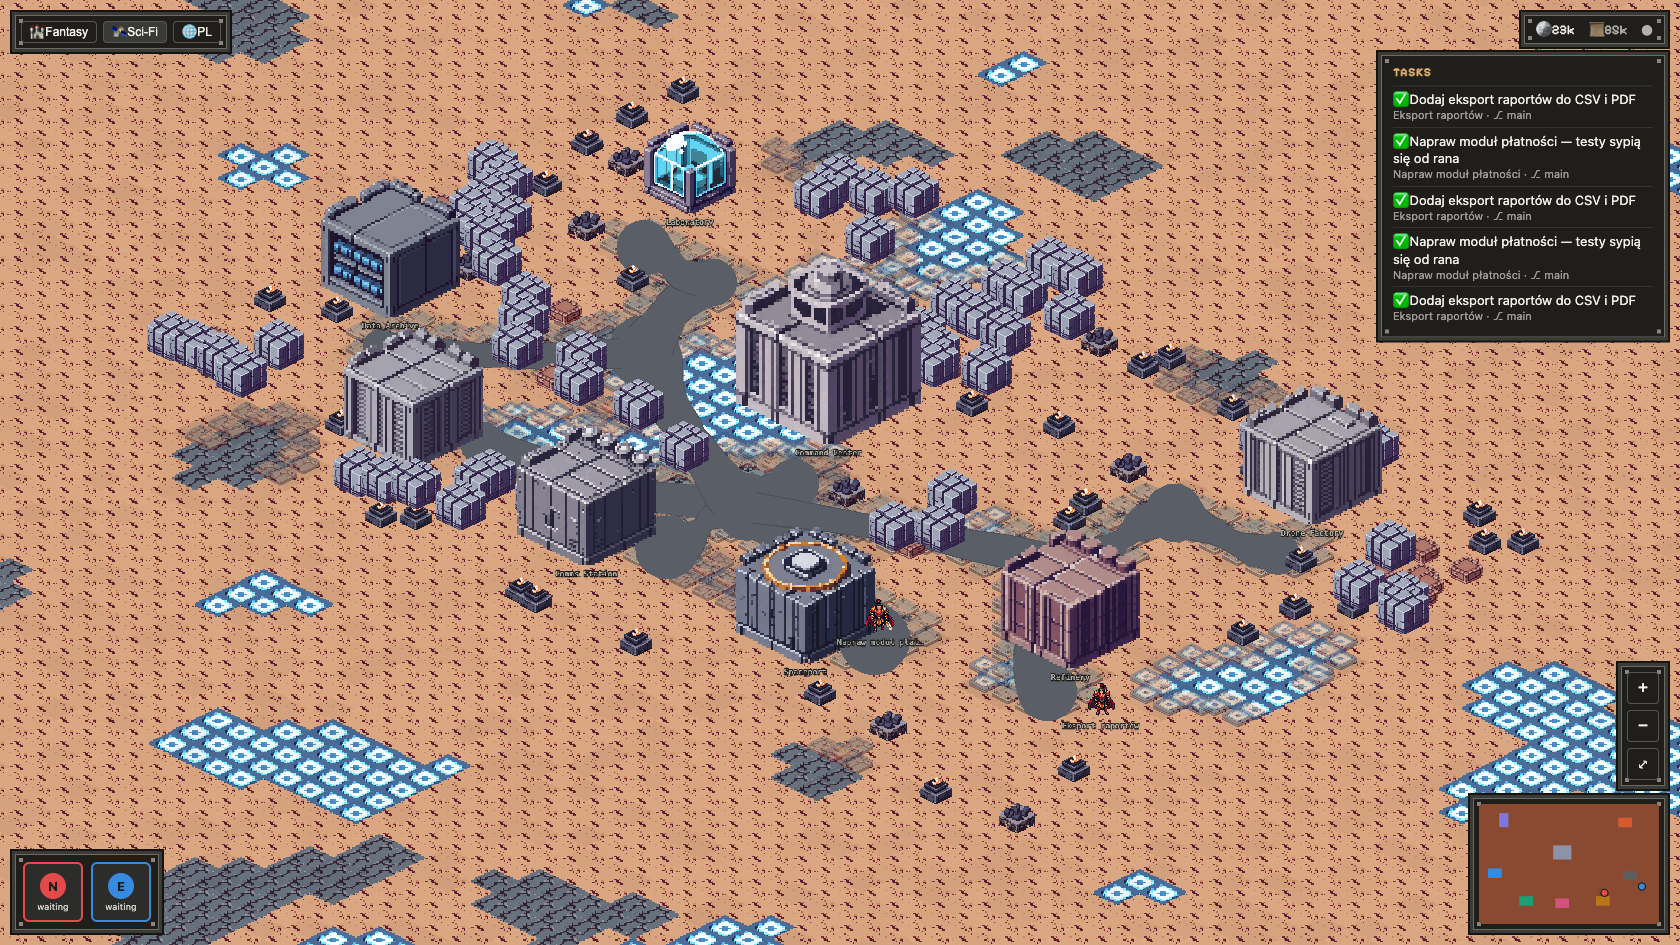
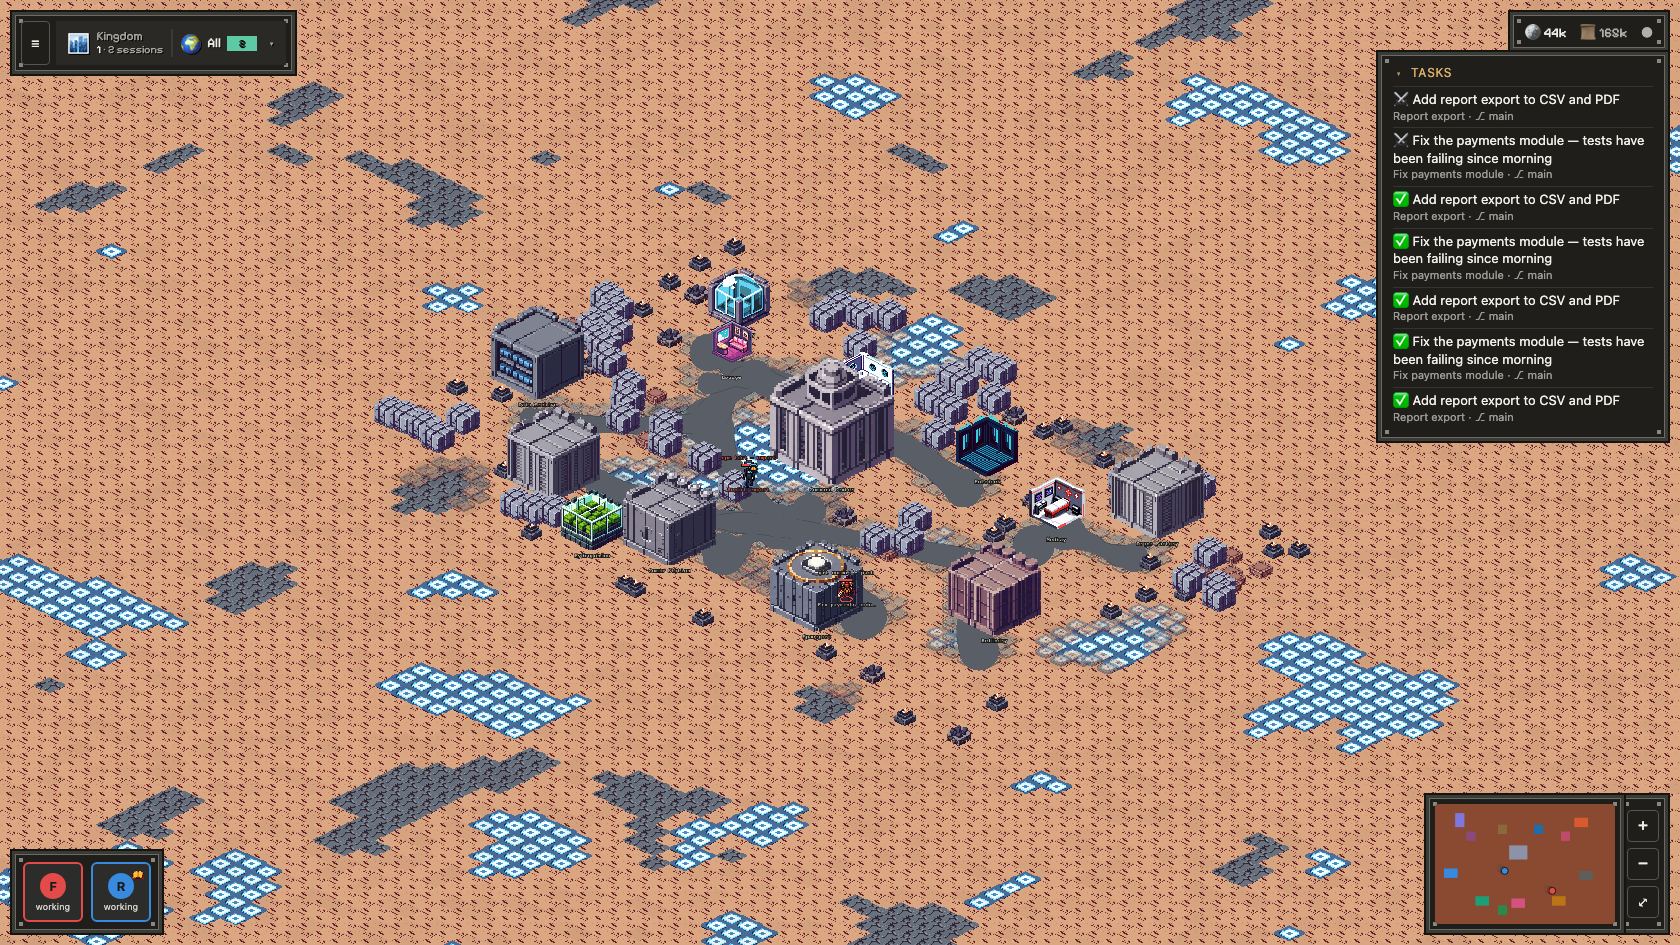
docs: retake screenshots on the fork — night realm, heraldry, dusk panel
- citadel-fantasy.png: fantasy realm at 22:00 — moonlit tint, lit windows
- citadel-scifi.png: Martian colony by day (contrast with the night hero shot)
- citadel-session-panel.png: OpenCode scout at dusk with provider pill and
  the new shield badge visible
- alt text updated to match

Claude-Session: https://claude.ai/code/session_018WfWNWMy62s84HmVN7jcMy

diff --git a/docs/index.html b/docs/index.html
@@ -190,7 +190,7 @@
       <div class="frame rv" data-d="4">
         <span class="corner tl"></span><span class="corner tr"></span><span class="corner bl"></span><span class="corner br"></span>
         <div class="bar"><i style="background:#8fc065"></i><i style="background:#e0b64a"></i><i style="background:#7fb6c4"></i><span class="t">agent-hollow · localhost:5173</span></div>
-        <img src="screenshots/citadel-fantasy.png" alt="Agent Hollow — a peaceful fantasy realm with a keep, mage tower, market and library">
+        <img src="screenshots/citadel-fantasy.png" alt="Agent Hollow — the fantasy realm at night: keep, mage tower, market and library with windows aglow">
       </div>
     </div>
   </section>

diff --git a/README.md b/README.md
@@ -18,7 +18,7 @@ No combat, just a quiet realm you can watch at a glance.
 
 [**▶ Live site**](https://acaylor.github.io/agent-hollow/) · [Quick start](#-quick-start) · [How it works](#-how-it-works) · [Architecture](#-architecture)
 
-<img src="docs/screenshots/citadel-fantasy.png" alt="Agent Hollow — peaceful fantasy realm" width="820">
+<img src="docs/screenshots/citadel-fantasy.png" alt="Agent Hollow — the fantasy realm at night, windows aglow" width="820">
 
 </div>
 
@@ -44,7 +44,7 @@ A glanceable, second-monitor view of what your agents are quietly up to.
 
 | Fantasy | Sci-Fi |
 | --- | --- |
-| <img src="docs/screenshots/citadel-fantasy.png" alt="Fantasy realm" width="400"> | <img src="docs/screenshots/citadel-scifi.png" alt="Sci-fi colony" width="400"> |
+| <img src="docs/screenshots/citadel-fantasy.png" alt="Fantasy realm at night" width="400"> | <img src="docs/screenshots/citadel-scifi.png" alt="Sci-fi colony" width="400"> |
 
 **Session detail** — click a settler to inspect its task, token economy and live activity:
 